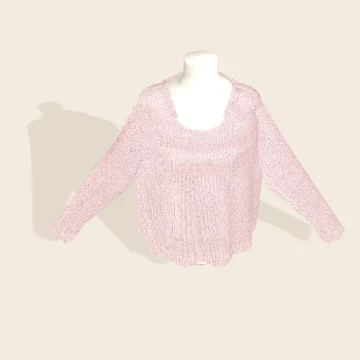
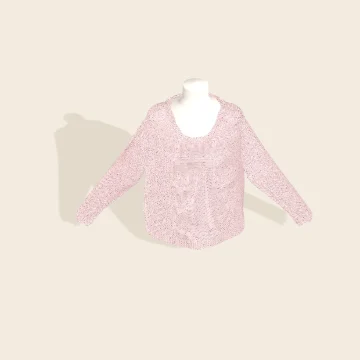
Knit top feels like the photo Kim sent (모양은 지금, 느낌만): closed fabric, loose and flowing
- knitted stitches drawn with the loop's head behind them (the purl bump on the inside) and their legs filling
  about a fifth of a stitch each - a closed fabric, the stand no longer seen through it
- the knit top stands a little off the body, eases out towards the hem in a few broad soft folds; the sleeves
  fall in broader, softer folds towards the cuff (the pattern unchanged)
- new card photos

diff --git a/src/features/yarn3d/worn.ts b/src/features/yarn3d/worn.ts
@@ -600,7 +600,7 @@ function knitTopForm(p: PlanInput, pp: Plan): Worn {
   const g = pp.g, K = knitTop(p, g), out: FormCourse[] = [], r = Math.max(6, K.bust / 6.15), below = pp.rows.filter(x => (x.part === "body" || x.part === "rim") && !/^목둘레/.test(x.label)).length;
   // (and the sleeves, hanging down their line from the underarm, above it too)
   const sleeveDrop = pp.rows.filter(x => x.part === "strap" && x.n > 0).length * g.h * .95 + 4;
-  const bust = Math.max(2.3 * r + 1, K.AR * g.h * .95 + Math.max(below * g.h, sleeveDrop) + 2 - 1.04 * r), body = bodyOf(r, bust), off = .7;
+  const bust = Math.max(2.3 * r + 1, K.AR * g.h * .95 + Math.max(below * g.h, sleeveDrop) + 2 - 1.04 * r), body = bodyOf(r, bust), off = 1.3;   // (a loose knit stands a little off the body - Kim: 사진처럼)
   const panel = pp.rows.filter(x => x.part === "panel" && x.n > 0 && /단$/.test(x.label)), shTop = bust + 1.04 * r, rh = g.h * .95;
   // a panel's row: its middle at the back (a = 0) or the front (a = PI), on the body from side to side; wider than
   // that it lies looser, in soft folds (`gap`: the front's neck, stitches left out at its middle)
@@ -652,10 +652,11 @@ function knitTopForm(p: PlanInput, pp: Plan): Worn {
       if (!front && i === 0) backTop = q; if (front && i === K.ND) frontMid = q;
     });
   }
-  // the body round by round from the underarm down, the hem's rib at its foot: hanging straight from the bust, its ease in folds
+  // the body round by round from the underarm down, the hem's rib at its foot: hanging from the bust and easing a
+  // little out towards the hem, in a few broad soft folds (Kim: 사진처럼 넉넉하게 흘러내리는 느낌)
   const rows = pp.rows.filter(x => (x.part === "body" || x.part === "rim") && !/^목둘레/.test(x.label));
   out.push({ p: clothRing(body, under + g.h * .5, K.N, g.w, off, 0, Math.max(under, bust), 7, 0), on: -1, ghost: true, cen: [0, under, 0] });
-  rows.forEach((x, i) => { const y = under - (i + .5) * g.h; out.push({ p: clothRing(body, y, x.n, g.w, off, i * .03, Math.max(y, bust), 9, Math.min(2.4, i * .12), Math.min(1.8, i * .045)), closed: true, on: out.length - 1, cen: [0, y, 0], kn: x.part === "rim" ? "rib" : "st" }); });
+  rows.forEach((x, i) => { const y = under - (i + .5) * g.h; out.push({ p: clothRing(body, y, x.n, g.w, off + Math.min(2.2, (under - y) * .07), i * .025, Math.max(y, bust), 6, Math.min(3.2, i * .14), Math.min(2.4, i * .06)), closed: true, on: out.length - 1, cen: [0, y, 0], kn: x.part === "rim" ? "rib" : "st" }); });
   // the sleeves (Kim: 팔뚝 - 어깨 끝에서 소맷부리까지 곧은 사선): the sleeve's outer line runs straight from the shoulder's
   // tip, through the point a sleeve's width out from the body's side at the underarm, on down to the cuff - the arm
   // a little away from the body, nothing puffed out past that line; its inner side starts at the underarm
@@ -675,8 +676,8 @@ function knitTopForm(p: PlanInput, pp: Plan): Worn {
       // the middle of the round: its outer edge on the line (a sleeve narrowing to the cuff keeps that edge straight)
       const c: V3 = [outU[0] + dir[0] * d - uo[0] * ru, outU[1] + dir[1] * d - uo[1] * ru, 0];
       // (니트는 흐물: soft folds, more of them towards the cuff)
-      const fd = .16 * Math.min(1, d / Ls);
-      for (let k = 0; k < n; k++) { const a = (k + .5) / n * TAU, f = 1 + fd * Math.sin(6 * a + d * .18) * Math.abs(Math.sin(a)); q.push(c[0] + uo[0] * Math.cos(a) * ru * (1 + fd * .3 * Math.sin(5 * a)), c[1] + uo[1] * Math.cos(a) * ru, Math.sin(a) * rz * f); }
+      const fd = .24 * Math.min(1, d / Ls);
+      for (let k = 0; k < n; k++) { const a = (k + .5) / n * TAU, f = 1 + fd * Math.sin(4 * a + d * .12) * Math.abs(Math.sin(a)); q.push(c[0] + uo[0] * Math.cos(a) * ru * (1 + fd * .35 * Math.sin(3 * a + d * .1)), c[1] + uo[1] * Math.cos(a) * ru, Math.sin(a) * rz * f); }
       return q;
     };
     // 진동 둘레 (Kim: 모든 편물은 이어져 있어야): the sleeve is picked up from the armhole's own edge - the shoulder,

diff --git a/src/features/yarn3d/engine.ts b/src/features/yarn3d/engine.ts
@@ -939,10 +939,15 @@ export function createYarnViewer(canvas: HTMLCanvasElement, first: YarnPattern, 
           if (ridgeRow) t.addScaledVector(out, ridgeIn ? -R * 1.1 : R * 1.1);
           const P = (u: number, v: number, w: number) => t.clone().addScaledVector(al, u * sw).addScaledVector(up, v * h).addScaledVector(out, w * R);
           if (knitSt) {
-            // (the yarn as thick as it is - Kim: 실을 아주 얇게)
-            const Rk = R, wF = .9;
+            // (a fine yarn, but the fabric closed - Kim: 느낌만 사진처럼, 비치지 않게: knitted yarn relaxes and fills its
+            // stitch, so the legs are drawn at least about a fifth of a stitch thick)
+            const Rk = Math.max(R, .23 * sw), wF = Rk / R * .9;
             if (c.kn === "rib" && i % 2 === 1) for (const v of [-.2, -.65]) strand([P(-.55, v - .2, -wF * .3), P(0, v, wF * .1), P(.55, v - .2, -wF * .3)], Rk, col);
-            else for (const k of [-1, 1]) strand([P(k * .45, .25, wF * .6), P(k * .24, -.4, wF * (c.kn === "rib" ? 1.3 : 1)), P(k * .04, -1, wF * .5)], Rk, col);
+            else {
+              for (const k of [-1, 1]) strand([P(k * .45, .25, wF * .6), P(k * .24, -.4, wF * (c.kn === "rib" ? 1.3 : 1)), P(k * .04, -1, wF * .5)], Rk, col);
+              // the loop's head behind (the purl bump on the inside): it closes the gap between the rows' V's
+              strand([P(-.55, -.05, -wF * .2), P(0, .12, -wF * .7), P(.55, -.05, -wF * .2)], Rk, col);
+            }
             continue;
           }
           // the head: front half up over the fabric, back half under, wider than the stitch so the next one's hooks into it
